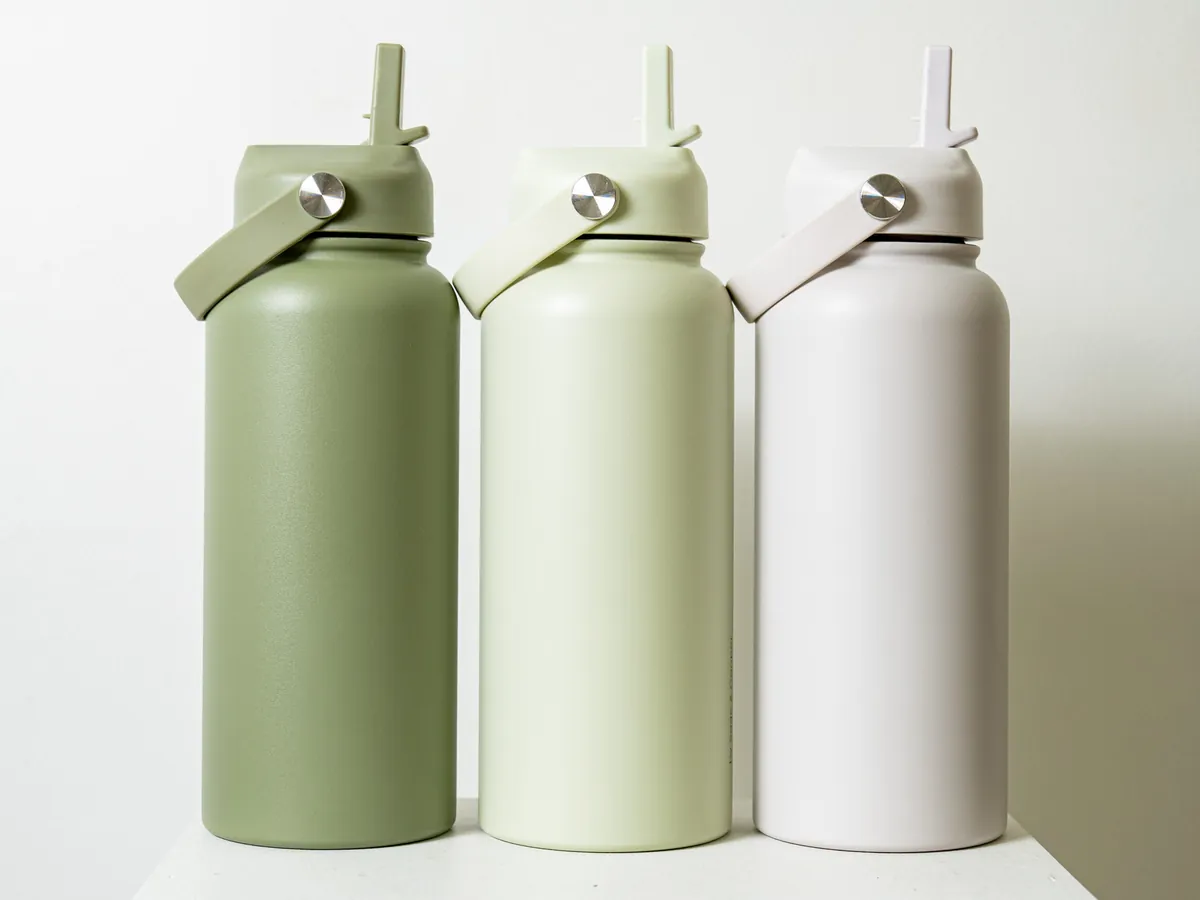
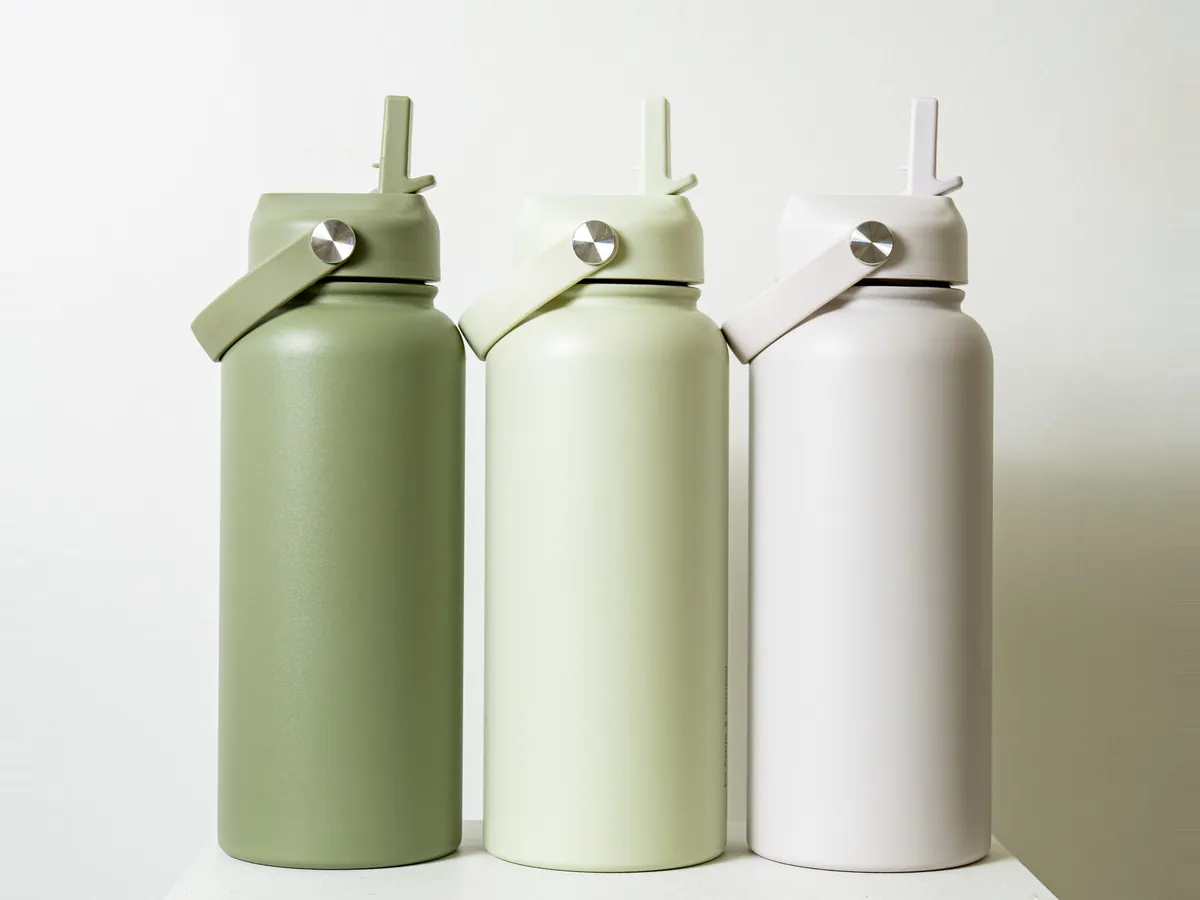
Homepage bottle card: headroom photo (retry)

Changed region(s): [[0.1233, 0.0311, 1.0, 1.0], [0.2467, 0.4356, 0.2775, 0.4667]]

diff --git a/index.html b/index.html
@@ -366,7 +366,7 @@ input[type=range]{accent-color:var(--magenta);height:34px}
         <span class="feat-link">from $154 &middot; price online &#8594;</span>
       </a>
       <a class="feat-card" href="promotional-drink-bottles.html">
-        <span class="feat-media"><img src="assets/img/promo/drink-bottles-byron.webp?v=2" alt="Three Byron 1 litre insulated drink bottles in olive, light green and white, ready for logo branding" width="1200" height="900" loading="lazy"></span>
+        <span class="feat-media"><img src="assets/img/promo/drink-bottles-byron.webp?v=3" alt="Three Byron 1 litre insulated drink bottles in olive, light green and white, ready for logo branding" width="1200" height="900" loading="lazy"></span>
         <span class="feat-badge alt">Branded giveaways</span>
         <h3>Branded drink bottles</h3>
         <p>70 bottles, flasks and tumblers with live supplier stock, priced on the page.</p>
